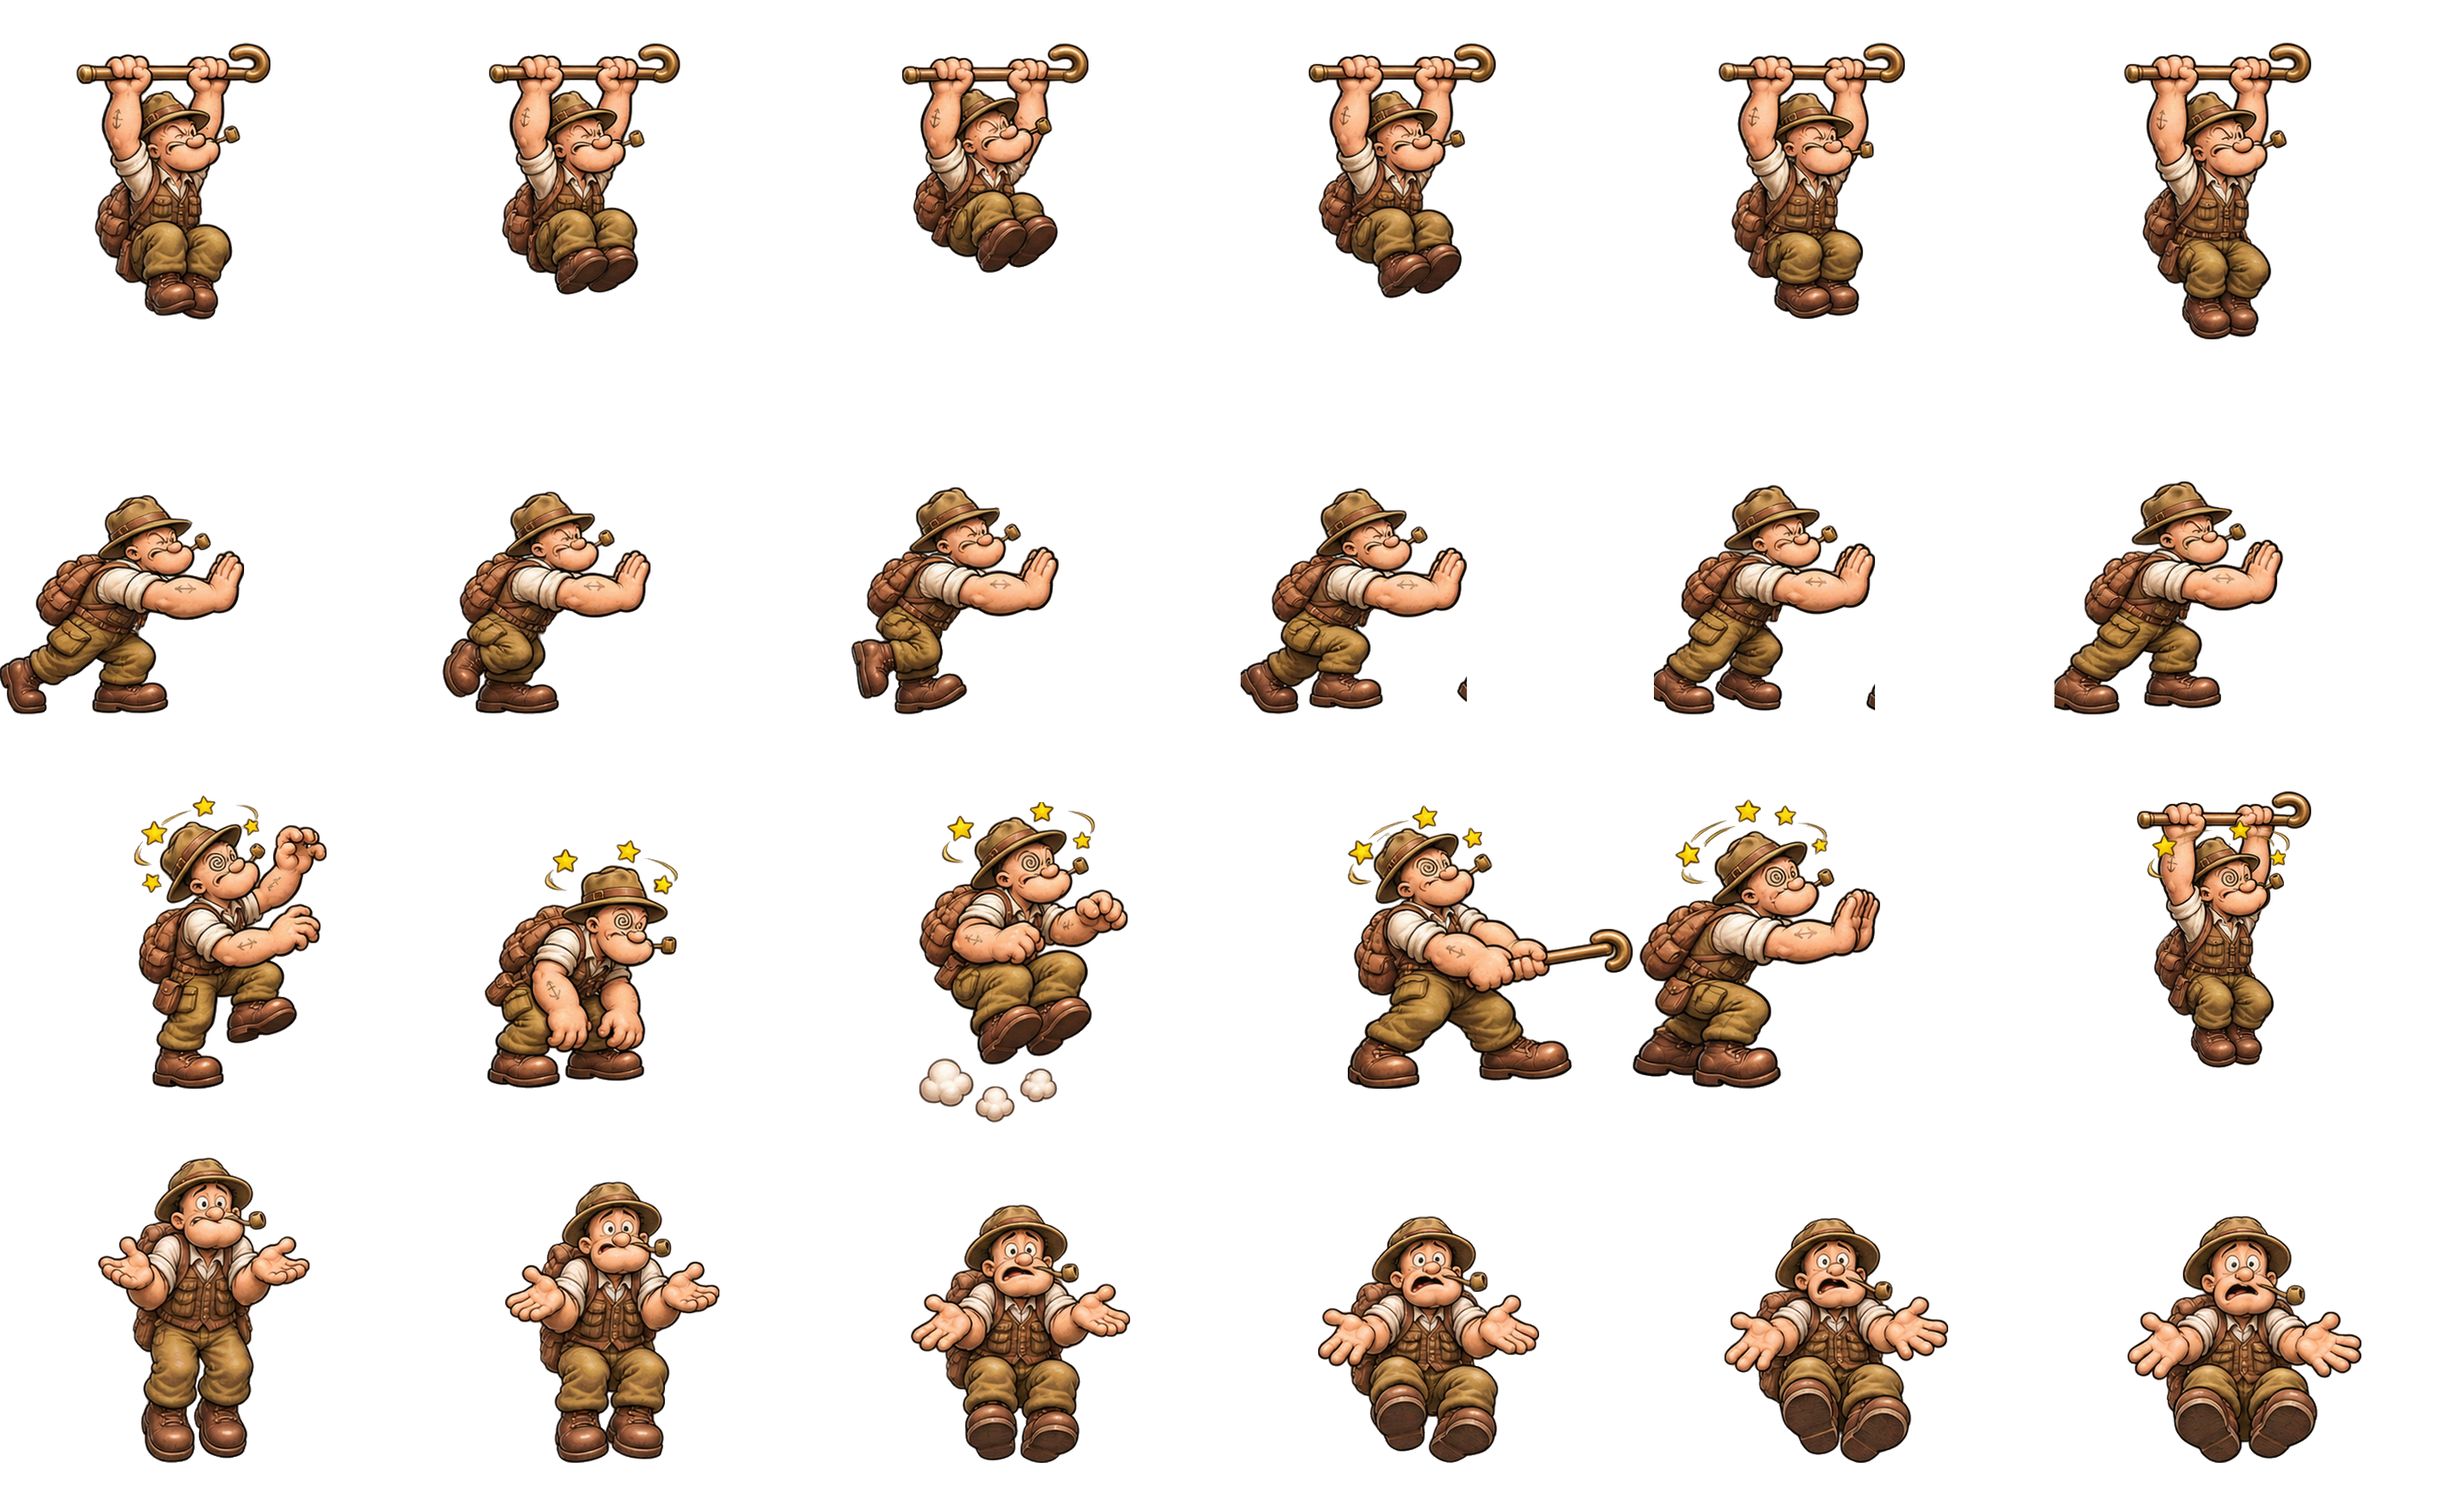
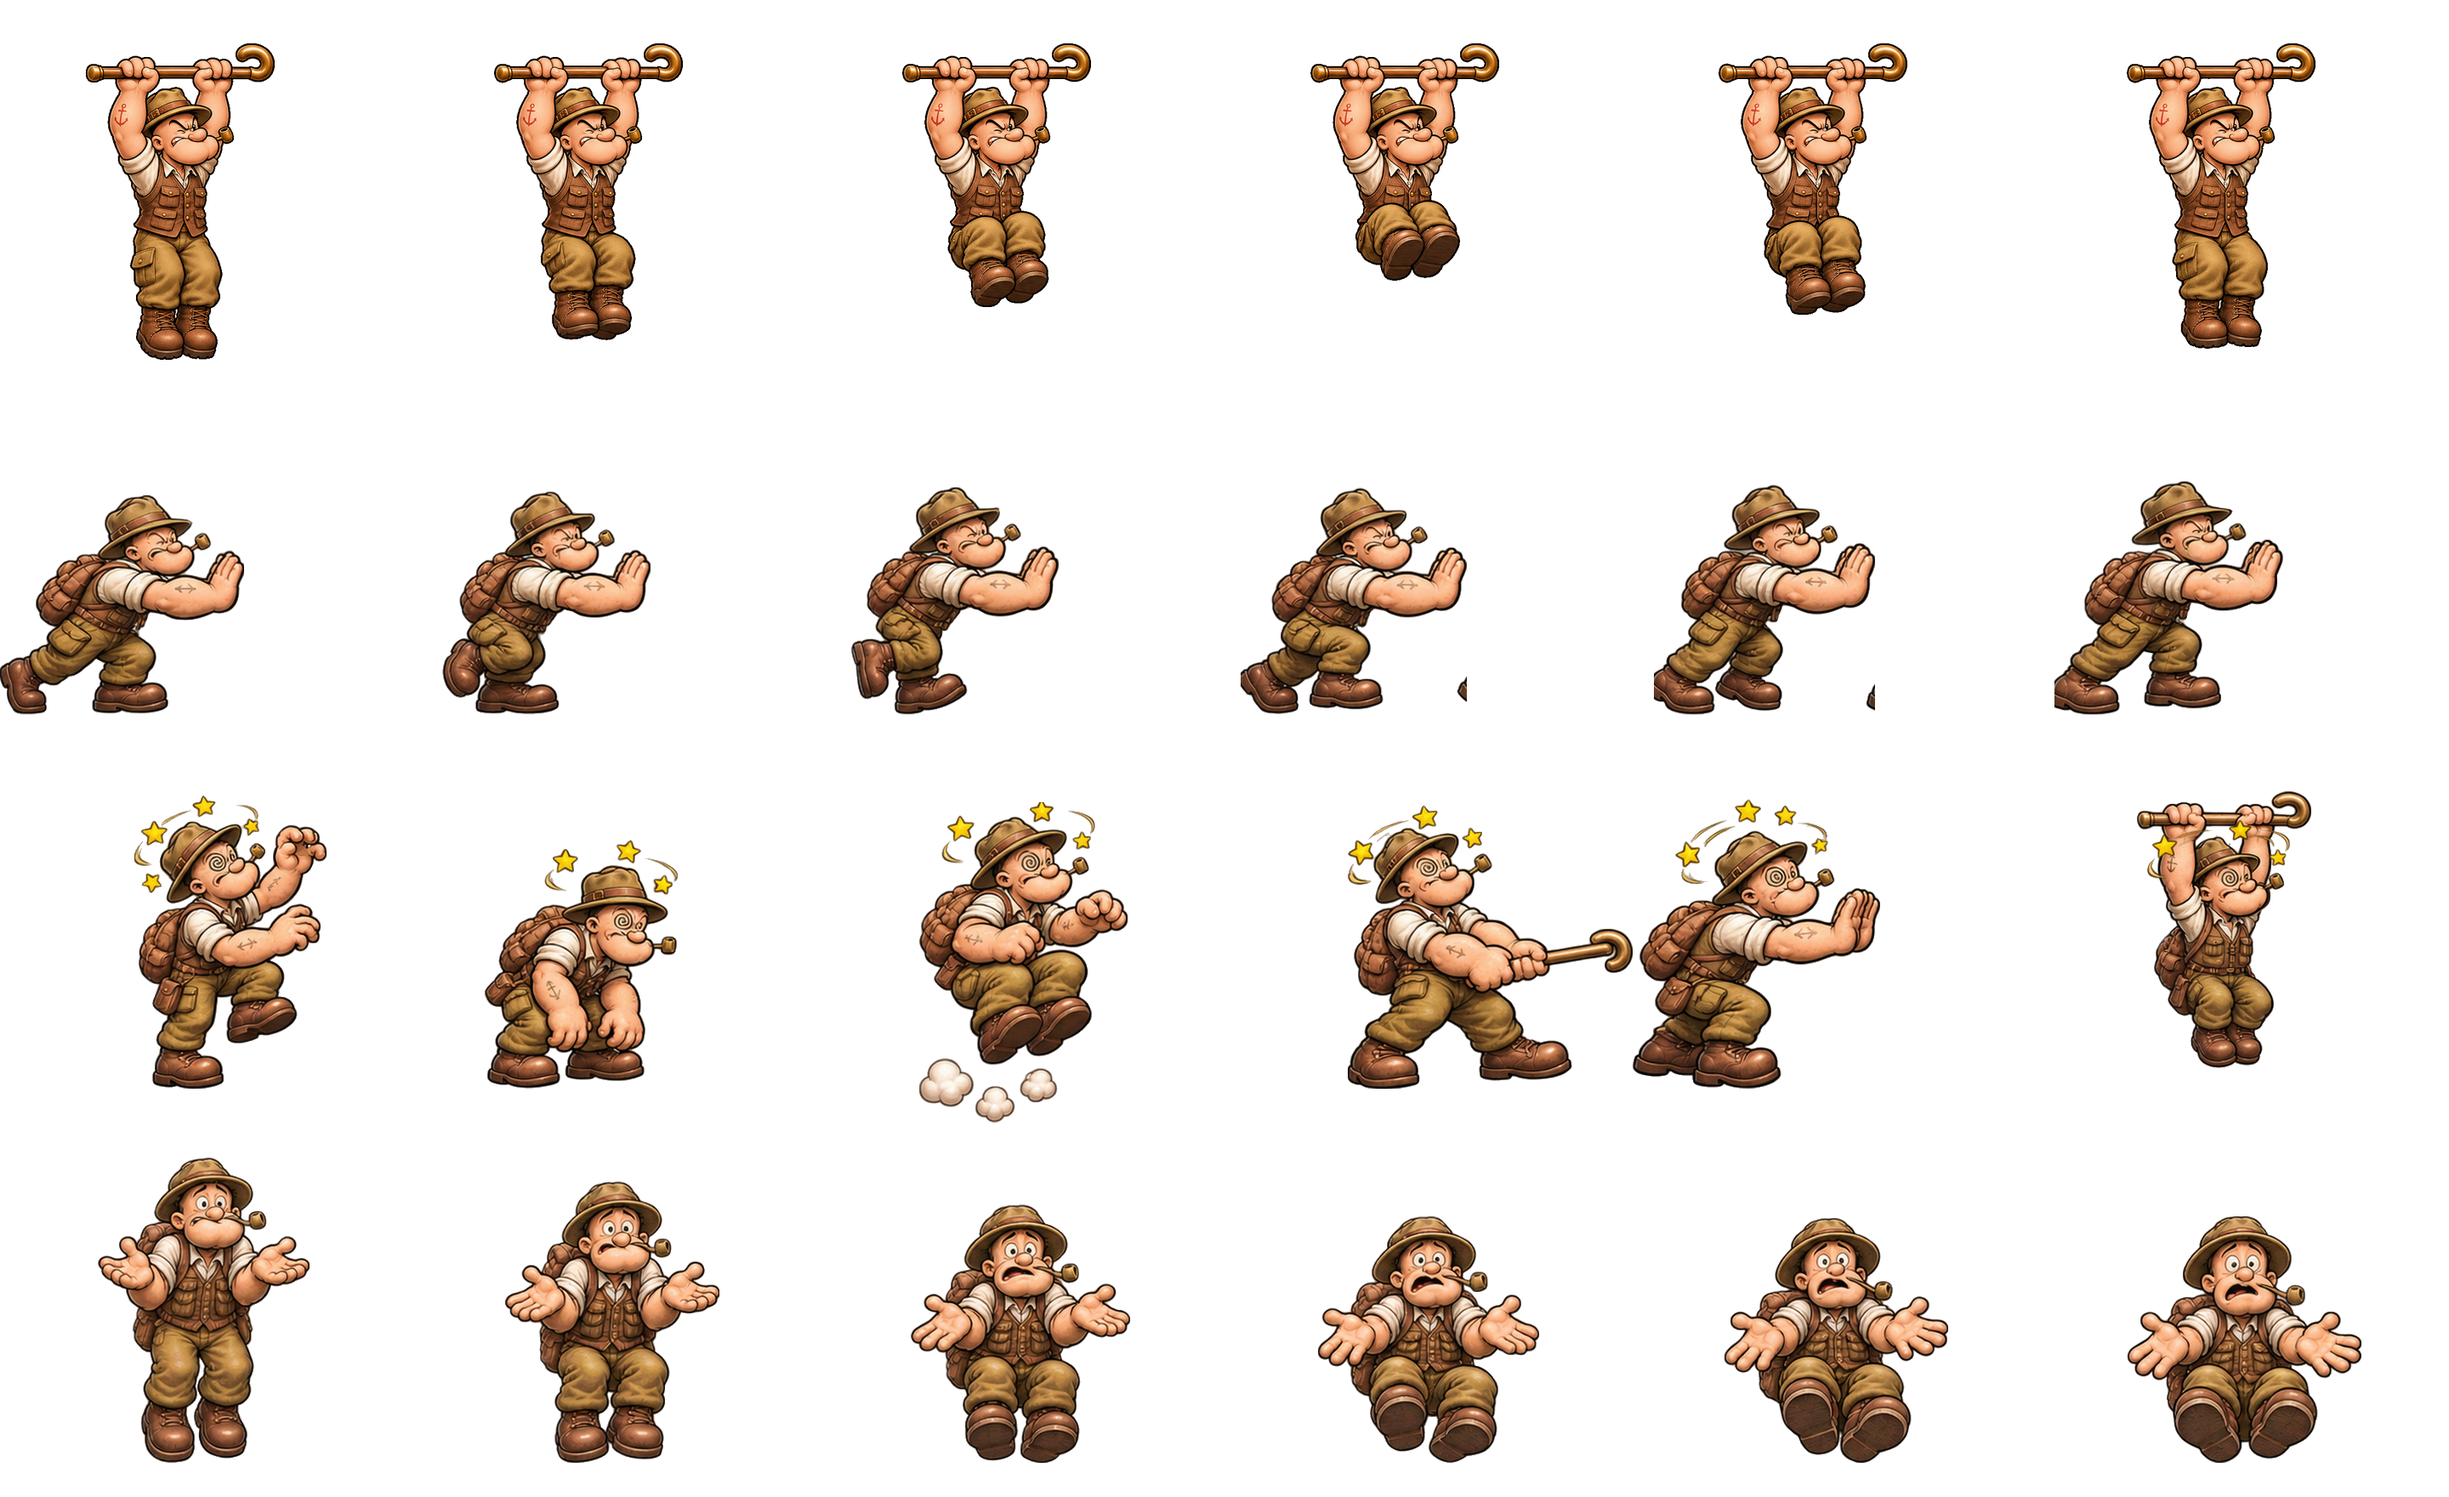
v0.93: yeni bastonla asılma animasyonu
Claude-Session: https://claude.ai/code/session_015fAnPNTPRnCrrXVbYZQW8j

diff --git a/js/ayarlar.js b/js/ayarlar.js
@@ -1,6 +1,6 @@
 // Popeye Tales (Atari) — oyun ayarları. Tüm uzunluklar dünya pikseli (1 karo = 32 px), süreler saniye.
 const CONFIG = {
-  surum: 'v0.92',
+  surum: 'v0.93',
   bayrakBoy: 57.6,      // kontrol noktası bayrağının boyu
   ustUsteGomme: 4,
   tasYukari: 3,         // kırılır taşlar (kasa hariç) yerde bu kadar yukarıda çizilir (bölümde tasZeminYukari varsa o)

diff --git a/araclar/oyuncuEk.py b/araclar/oyuncuEk.py
@@ -54,6 +54,13 @@ ASILI = [0, 1, 2, 3, 4, 5, 17]
 ITME = [6, 7, 8, 9, 10, 11, 16]
 ON_KENAR = C + 9 / (66.21 / (117 * K) * 0.77) + 2 * K   # boy (CONFIG.oyuncu.boy) ve itme ölçeği (animOlcek.it) değişirse güncelle   # gövde yarı genişliği (9 px) hücre pikseline çevrildi
 ASILI_BOY = max(round(kareler[i][0].shape[0] * OLCEK * (kareler[i][2] if len(kareler[i]) > 2 else 1)) for i in ASILI[:6])
+# v0.93: asılma kareleri (0–5) oyuncu_asili.gif'ten (6 kare). Ölçek: baston boyu (figür genişliği) eskisiyle aynı;
+# baston yüksekliği eski hizada kalsın diye ASILI_BOY eski karelerden hesaplanır (yukarıda).
+from PIL import ImageSequence
+_eskiG = np.mean([kareler[i][0].shape[1] for i in range(6)])
+for i, f in enumerate(ImageSequence.Iterator(Image.open(KOK + '/assets/kaynak/oyuncu_asili.gif'))):
+    a_ = np.array(f.convert('RGBA')); a_[a_[:, :, 3] < 60] = 0; a_ = kes(a_, 0, a_.shape[0], 0, a_.shape[1])
+    kareler[i] = (a_, 0, _eskiG / a_.shape[1])
 KANCA_X = C + 38 * K   # v0.43: baston ucu gövdenin ~5.5 px önünde (v0.38'deki ~10.6 px'ten 5 px geri) → kanca taşın içine girer
 for n, k in enumerate(kareler):
     arr, alt = k[0], k[1]
